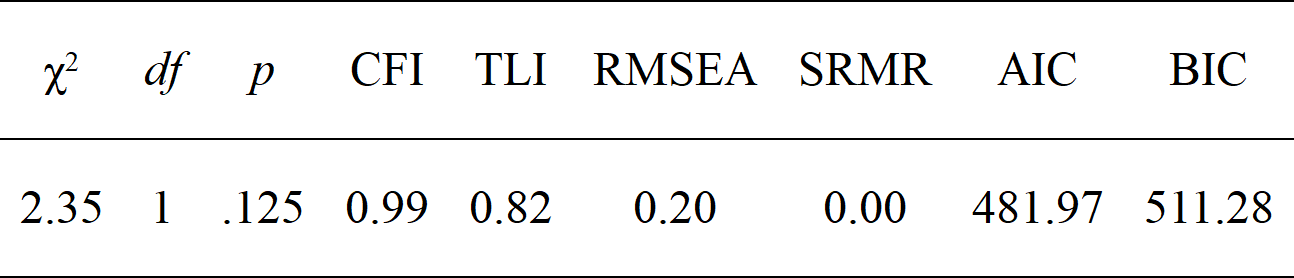
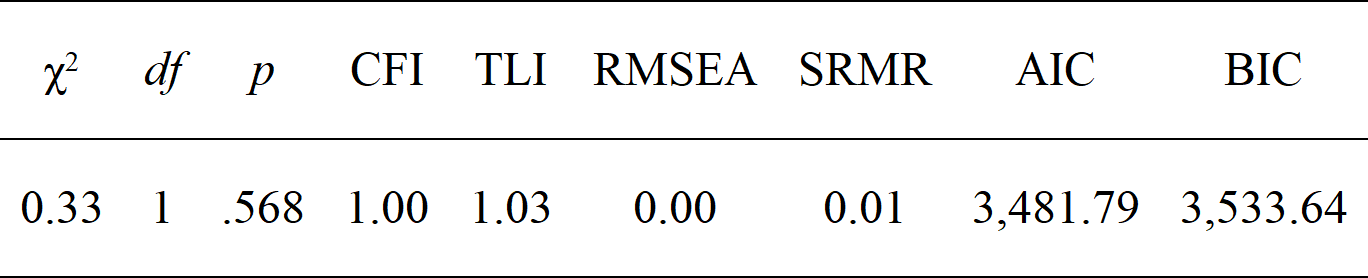
added indirect effects

diff --git a/README.md b/README.md
@@ -138,7 +138,6 @@ head(data)
 #> 
 #> $visual
 #> [1] "ageyr" "grade"
-
 (regression <- list(speed = IV,
                     textual = IV))
 #> $speed
@@ -146,7 +145,6 @@ head(data)
 #> 
 #> $textual
 #> [1] "ageyr" "grade"
-
 (covariance <- list(speed = "textual",
                     ageyr = "grade"))
 #> $speed
@@ -195,6 +193,10 @@ model. Let’s make the non-saturated path analysis model next.
 
 Because we use `lavaanExtra`, we don’t have to redefine the entire
 model: simply what we want to update. In this case, the regressions.
+However, we also want to specify and test our indirect effects
+(mediation). For this, we have to obtain the path names by setting
+`label = TRUE`. This will allow us to define our indirect effects and
+feed them back to `write_lavaan`.
 
 ``` r
 (regression <- list(speed = "grade",
@@ -206,15 +208,15 @@ model: simply what we want to update. In this case, the regressions.
 #> [1] "ageyr" "grade"
 # We check that we have removed "ageyr" correctly from "speed". OK.
 
-# We can run the model again.
-model.path <- write_lavaan(mediation, regression, covariance)
+# We can run the model again. However, we set `label = TRUE` to get the path names
+model.path <- write_lavaan(mediation, regression, covariance, label = TRUE)
 cat(model.path)
 #> ##################################################
 #> # [-----------Mediations (named paths)-----------]
 #> 
-#> speed ~ visual
-#> textual ~ visual
-#> visual ~ ageyr + grade
+#> speed ~ speed_a*visual
+#> textual ~ textual_a*visual
+#> visual ~ visual_a*ageyr + visual_b*grade
 #> 
 #> ##################################################
 #> # [---------Regressions (Direct effects)---------]
@@ -229,6 +231,51 @@ cat(model.path)
 #> ageyr ~~ grade
 # We check that we have removed "ageyr" correctly from "speed" in the 
 # regression section. OK.
+```
+
+Here, if we check the mediation section of the model, we see that it has
+been “augmented” with the path names. Those are `speed_a`, `textual_a`,
+`visual_a`, and `visual_b`. The logic for the determination of the path
+names is predictable: it is always the dependent variable (on the left)
+followed by letters, which represent the number of the explanatory
+variable (on the right).
+
+``` r
+(indirect <- list(age_visual_speed = c("speed_a", "visual_a"),
+                  grade_visual_textual = c("textual_a", "visual_b")))
+#> $age_visual_speed
+#> [1] "speed_a"  "visual_a"
+#> 
+#> $grade_visual_textual
+#> [1] "textual_a" "visual_b"
+
+# We run the model again, with the indirect effects
+model.path <- write_lavaan(mediation, regression, covariance, indirect, label = TRUE)
+cat(model.path)
+#> ##################################################
+#> # [-----------Mediations (named paths)-----------]
+#> 
+#> speed ~ speed_a*visual
+#> textual ~ textual_a*visual
+#> visual ~ visual_a*ageyr + visual_b*grade
+#> 
+#> ##################################################
+#> # [---------Regressions (Direct effects)---------]
+#> 
+#> speed ~ grade
+#> textual ~ ageyr + grade
+#> 
+#> ##################################################
+#> # [------------------Covariances-----------------]
+#> 
+#> speed ~~ textual
+#> ageyr ~~ grade
+#> 
+#> ##################################################
+#> # [--------Mediations (indirect effects)---------]
+#> 
+#> age_visual_speed := speed_a * visual_a
+#> grade_visual_textual := textual_a * visual_b
 
 # Fit the model with `lavaan`
 fit.path <- lavaan(model.path, data = data, auto.var = TRUE)
@@ -259,12 +306,12 @@ summary(fit.path)
 #> Regressions:
 #>                    Estimate  Std.Err  z-value  P(>|z|)
 #>   speed ~                                             
-#>     visual            0.192    0.050    3.862    0.000
+#>     visual  (spd_)    0.192    0.050    3.862    0.000
 #>   textual ~                                           
-#>     visual            0.286    0.063    4.519    0.000
+#>     visual  (txt_)    0.286    0.063    4.519    0.000
 #>   visual ~                                            
-#>     ageyr            -0.134    0.054   -2.470    0.014
-#>     grade             0.493    0.114    4.306    0.000
+#>     ageyr  (visl_)   -0.134    0.054   -2.470    0.014
+#>     grade  (vsl_b)    0.493    0.114    4.306    0.000
 #>   speed ~                                             
 #>     grade             0.533    0.087    6.111    0.000
 #>   textual ~                                           
@@ -285,6 +332,11 @@ summary(fit.path)
 #>    .visual            0.723    0.059   12.247    0.000
 #>     ageyr             1.103    0.090   12.247    0.000
 #>     grade             0.249    0.020   12.247    0.000
+#> 
+#> Defined Parameters:
+#>                    Estimate  Std.Err  z-value  P(>|z|)
+#>     age_visual_spd   -0.026    0.012   -2.081    0.037
+#>     grade_vsl_txtl    0.141    0.045    3.117    0.002
 
 # Get regression parameters only and make it pretty with `rempsyc::nice_table`
 lavaan_reg(fit.path) |> 
@@ -297,15 +349,31 @@ lavaan_reg(fit.path) |>
 # We only kept significant regressions. Good (for this demo).
 
 # Get fit indices
-nice_fit(fit)
-#>    chi2 df     p   CFI   TLI RMSEA  SRMR     AIC     BIC
-#> x 2.351  1 0.125 0.991 0.822 0.205 0.002 481.967 511.282
+nice_fit(fit.path)
+#>    chi2 df     p CFI   TLI RMSEA  SRMR      AIC     BIC
+#> x 0.327  1 0.568   1 1.028     0 0.007 3481.787 3533.64
 
 # We can get it prettier with `rempsyc::nice_table`
-nice_table(nice_fit(fit))
+nice_table(nice_fit(fit.path))
+```
+
+``` r
+
+# Let's get the indirect effects only
+parameterEstimates(fit.path, standardized = TRUE)[which(parameterEstimates(fit.path)$op == ":="),]
+#>                     lhs op                rhs                label    est    se
+#> 15     age_visual_speed :=   speed_a*visual_a     age_visual_speed -0.026 0.012
+#> 16 grade_visual_textual := textual_a*visual_b grade_visual_textual  0.141 0.045
+#>         z pvalue ci.lower ci.upper std.lv std.all std.nox
+#> 15 -2.081  0.037   -0.050   -0.001 -0.026  -0.033  -0.033
+#> 16  3.117  0.002    0.052    0.230  0.141   0.066   0.066
 ```
 
 <img src="man/figures/README-path2-1.png" width="50%" />
+
+For reference, this is our model, visually speaking
+
+<!-- ![](models-drawings/model.png) -->
 
 ### Latent model
 
@@ -326,7 +394,7 @@ everything again. We can simply define our latent variables and proceed.
 #> $speed
 #> [1] "x7" "x8" "x9"
 
-model.latent <- write_lavaan(mediation, regression, covariance, latent = latent)
+model.latent <- write_lavaan(mediation, regression, covariance, indirect, latent, label = TRUE)
 cat(model.latent)
 #> ##################################################
 #> # [---------------Latent variables---------------]
@@ -338,9 +406,9 @@ cat(model.latent)
 #> ##################################################
 #> # [-----------Mediations (named paths)-----------]
 #> 
-#> speed ~ visual
-#> textual ~ visual
-#> visual ~ ageyr + grade
+#> speed ~ speed_a*visual
+#> textual ~ textual_a*visual
+#> visual ~ visual_a*ageyr + visual_b*grade
 #> 
 #> ##################################################
 #> # [---------Regressions (Direct effects)---------]
@@ -353,6 +421,12 @@ cat(model.latent)
 #> 
 #> speed ~~ textual
 #> ageyr ~~ grade
+#> 
+#> ##################################################
+#> # [--------Mediations (indirect effects)---------]
+#> 
+#> age_visual_speed := speed_a * visual_a
+#> grade_visual_textual := textual_a * visual_b
 
 library(lavaan)
 fit.latent <- lavaan(model.latent, data = HolzingerSwineford1939, auto.var = TRUE, 
@@ -428,12 +502,12 @@ summary(fit.latent, fit.measures = TRUE)
 #> Regressions:
 #>                    Estimate  Std.Err  z-value  P(>|z|)
 #>   speed ~                                             
-#>     visual            0.255    0.066    3.843    0.000
+#>     visual  (spd_)    0.255    0.066    3.843    0.000
 #>   textual ~                                           
-#>     visual            0.398    0.087    4.579    0.000
+#>     visual  (txt_)    0.398    0.087    4.579    0.000
 #>   visual ~                                            
-#>     ageyr            -0.177    0.068   -2.611    0.009
-#>     grade             0.618    0.145    4.273    0.000
+#>     ageyr  (visl_)   -0.177    0.068   -2.611    0.009
+#>     grade  (vsl_b)    0.618    0.145    4.273    0.000
 #>   speed ~                                             
 #>     grade             0.462    0.096    4.824    0.000
 #>   textual ~                                           
@@ -463,6 +537,11 @@ summary(fit.latent, fit.measures = TRUE)
 #>    .visual            0.752    0.140    5.357    0.000
 #>    .textual           0.668    0.083    8.045    0.000
 #>    .speed             0.312    0.067    4.622    0.000
+#> 
+#> Defined Parameters:
+#>                    Estimate  Std.Err  z-value  P(>|z|)
+#>     age_visual_spd   -0.045    0.020   -2.228    0.026
+#>     grade_vsl_txtl    0.246    0.075    3.256    0.001
 ```
 
 ### Compare performance of all models
